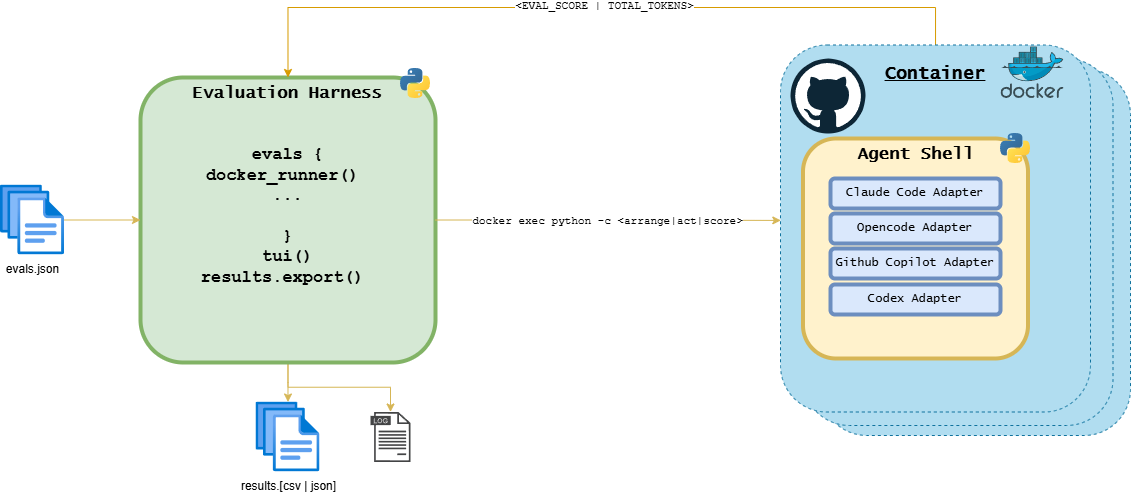
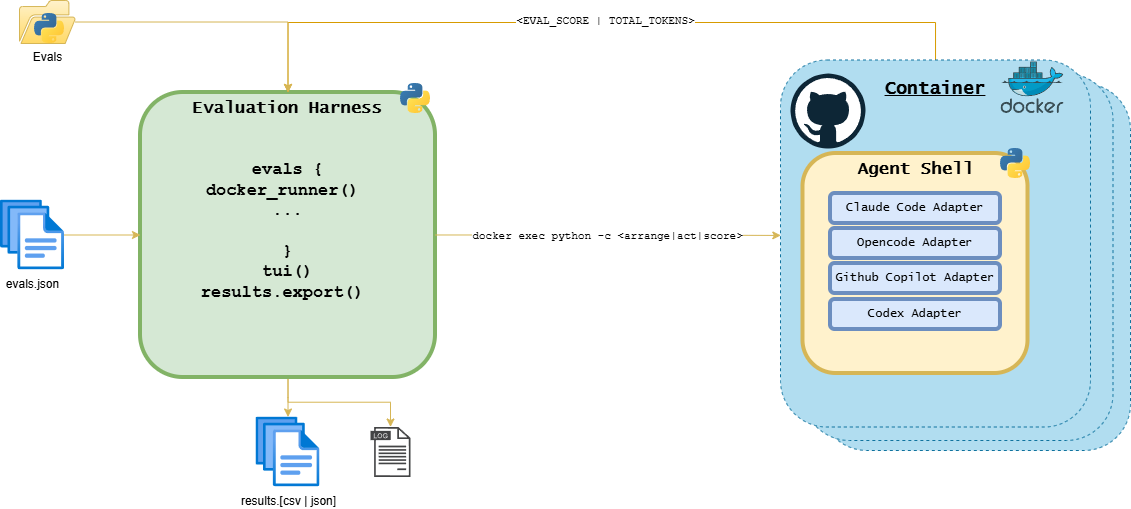
made eval file location configurable

diff --git a/src/evals_engine.py b/src/evals_engine.py
@@ -13,6 +13,7 @@ from uuid import UUID
 from src.models import AgentEvalExecution, AgentEvalStatus
 from src.docker_runner import DockerRunner
 from src.logging_config import agent_logger
+from src.config.settings import settings 
 
 logger = logging.getLogger(__name__)
 
@@ -181,7 +182,7 @@ def run_session(
     return [aee for aee in agent_eval_executions if aee.status == AgentEvalStatus.FAILED]
 
 def _load_eval_class(eval_dir: str):
-    module = importlib.import_module(f"src.evals.{eval_dir}")
+    module = importlib.import_module(f"{settings.EVALS_PACKAGE}.{eval_dir}")
     class_name = "".join(p.capitalize() for p in eval_dir.split("_"))
     return getattr(module, class_name)
 

diff --git a/tests/unit/test_evals_engine.py b/tests/unit/test_evals_engine.py
@@ -807,7 +807,7 @@ class TestLoadEvalClass:
         result = _load_eval_class("saleor_spree_mapping")
 
         # Assert
-        assert captured["name"] == "src.evals.saleor_spree_mapping"
+        assert captured["name"] == "example_evals.saleor_spree_mapping"
         assert result == "THE_CLASS"
 
 

diff --git a/src/config/settings.py b/src/config/settings.py
@@ -20,6 +20,7 @@ class Settings(BaseSettings):
     URLLIB3_LOG_LEVEL: str = "WARNING"
 
     ### Evaluation Run Configuration ###
+    EVALS_PACKAGE: str = "example_evals"
     MAX_AGENT_CONCURRENCY: int = 4 
     ARRANGE_TIMEOUT_SECONDS: int = 60 * 60 
     ACT_TIMEOUT_SECONDS: int = 60 * 60 

diff --git a/README.md b/README.md
@@ -19,7 +19,7 @@ or scripts. It was originally inspired for auto-research type loops but I've com
 application for it.
 
 ## Example Eval Patterns
-This harness ships with some [example evals](docs/evals.md), as I come up with different types of 
+This harness ships with some example evals, as I come up with different types of 
 evaluations for my own workflows, then this example collection will increase.
 
 These evals are to some degree quite straight forward for modern harnesses and models, given that they 
@@ -29,11 +29,10 @@ list of the patterns and a brief description:
 
 |Evaluation Pattern|Description|Example Evaluation|
 |------------------|-----------|------------------|
-|Search with Questions and Answers|Have an agent perform a search of a knowedge base and then answer multiple choice questions about it in a JSON file, this eval also demonstrates how you can add an mcp server to the agentic harness as part of the evaluation|encode_repo_forgetful|
-|Bug Fix with Automated Tests|Ask the agent to fix bugs in a repo that is causing automated tests to fail, this eval also demonstrates how to restore the original tests to ensure agent hasn't modified them to pass|inflection_bug_fix|
-|Conical Data Mapping|Instructs the agent to create a Canical Data Mapping between two data models and output the values to a CSV file for scoring, an alternative to the JSON question and answers|saleor_spree_mapping|
-|New Feature with Automated Tests|Ask an agent to implement a new feature with prediefined API contract and run hidden automated tests after the agent has completed their work, it also demonstrates how you can make use of extrending the base docker image, in this example we add rustup to allow for the agent to use cargo to build and test in Rust|chess_engine|
-
+|[Search with Questions and Answers](docs/eval_patterns/search_with_qa.md)|Have an agent perform a search of a knowedge base and then answer multiple choice questions about it in a JSON file, this eval also demonstrates how you can add an mcp server to the agentic harness as part of the evaluation|encode_repo_forgetful|
+|[Bug Fix with Automated Tests](docs/eval_patterns/bug_fix.md)|Ask the agent to fix bugs in a repo that is causing automated tests to fail, this eval also demonstrates how to restore the original tests to ensure agent hasn't modified them to pass|inflection_bug_fix|
+|[Conical Data Mapping](docs/eval_patterns/conical_data_mapping.md)|Instructs the agent to create a Canical Data Mapping between two data models and output the values to a CSV file for scoring, an alternative to the JSON question and answers|saleor_spree_mapping|
+|[New Feature with Automated Tests](docs/eval_patterns/new_feature.md)|Ask an agent to implement a new feature with prediefined API contract and run hidden automated tests after the agent has completed their work, it also demonstrates how you can make use of extrending the base docker image, in this example we add rustup to allow for the agent to use cargo to build and test in Rust|chess_engine|
 
 # Getting Started
 
@@ -64,9 +63,9 @@ uv run main.py
 The harness is structured in a way that there is an evaluation protocol, any evaluation must implement
 the same methods within the protocol.
 
-The harness ingests an evaluation file (the default is [evals.json](evals.json)), which determines
+When the harness is run it ingests an evaluation configuration file (the default is [evals.json](evals.json)), which determines
 which evaluations are in scope of the evaluation run, and also which agent harness/model combinations
-should be in scope of the run as well.
+should be in scope of the run.
 
 When I build my own automated tests for testing my actual code, I have used the popular _Arrange_, 
 _Act_ and _Assert_ pattern, to this end I have adopted these as methods that any evaluation class must
@@ -159,7 +158,7 @@ answers to a series of questions.
 - extend support to pi coding agent harness
 - extend tui functionality (view results in tui)
 - polish console output
-- add direct api key authorisation for harnesses
+- add direct api key authorisation for harnes
 
 
 # Technical Notes